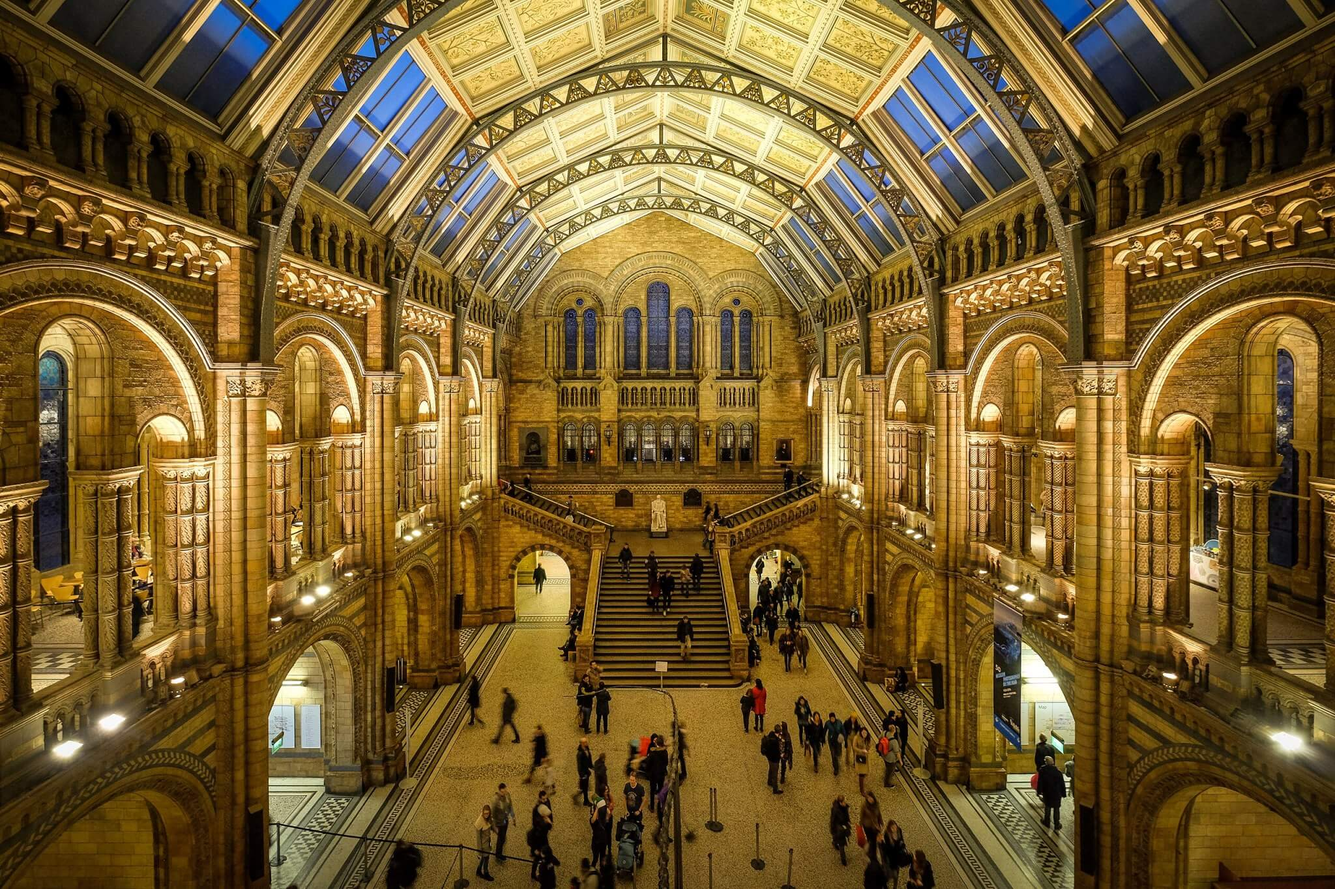
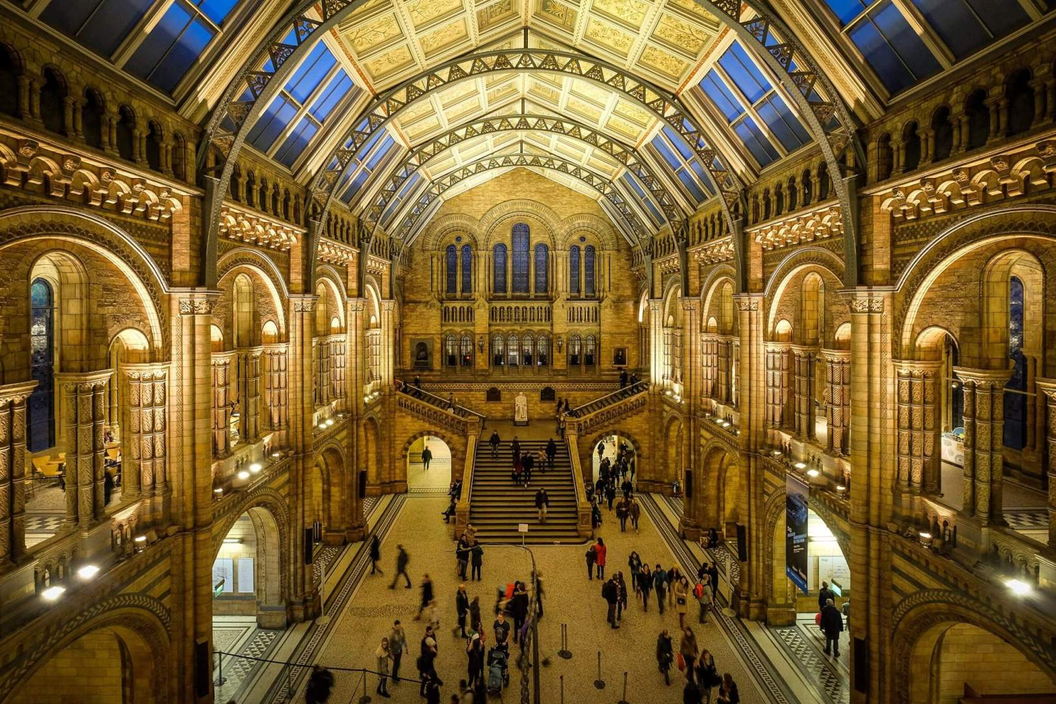
images_upgrade

diff --git a/components/AnimatedMenu/AnimatedMenuInterfaces.tsx b/components/AnimatedMenu/AnimatedMenuInterfaces.tsx
@@ -16,7 +16,7 @@ export const items: Item[] = [
       'ROMAN art was influenced by Greece and can in part be taken as a descendant ' +
       'of ancient Greek painting and sculpture, but was also strongly influenced by the' +
       ' more local Etruscan art of Italy. ',
-    imageUrl: '/animatedMenu/Achilles_Right_Compressed.jpg',
+    imageUrl: '/animatedMenu/Achilles_Right_Compressed.webp',
     theme: 'Pink',
   },
   {
@@ -26,7 +26,7 @@ export const items: Item[] = [
       ' and the Gothic art that emerged in Western Europe over the same period.' +
       ' Romanesque art and Gothic art dominated Western and Central Europe from approximately 1000 AD ' +
       'to the rise of the Renaissance style in the 15th century or later, depending on the region',
-    imageUrl: '/animatedMenu/Gothic_New.jpg',
+    imageUrl: '/animatedMenu/Gothic_New.webp',
   },
   {
     id: '03',
@@ -35,7 +35,7 @@ export const items: Item[] = [
       'in parallel with developments which occurred in philosophy, literature, music, and science.' +
       ' It took as its foundation the art of Classical antiquity, but was also influenced by the art of Northern Europe ' +
       'and contemporary scientific knowledge. Renaissance artists painted a wide variety of themes.',
-    imageUrl: '/animatedMenu/Pieta_New.jpg',
+    imageUrl: '/animatedMenu/Pieta_New.webp',
   },
   {
     id: '04',
@@ -43,7 +43,7 @@ export const items: Item[] = [
     text: 'Renaissance Classicism spawned two different movements—Mannerism and the Baroque. ' +
       'Mannerism, a reaction against the idealist perfection of Classicism, employed distortion of light ' +
       'and spatial frameworks in order to emphasize the emotional content of a painting and the emotions of the painter.',
-    imageUrl: '/animatedMenu/Trevi_New.jpg',
+    imageUrl: '/animatedMenu/Trevi_New.webp',
 
   },
 ]

diff --git a/components/ArtMenu/MenuInterfaces.tsx b/components/ArtMenu/MenuInterfaces.tsx
@@ -46,7 +46,7 @@ export const links: ArtMenuLinks[] = [
         </>
       ),
       titleUrl: '/images/British_Museum/british-museum-logo.svg',
-      coverImage: '/images/British_Museum/Br_Museum.jpg',
+      coverImage: '/images/British_Museum/Br_Museum.webp',
       listImages: [
         {
           name: 'Man_Bust',
@@ -273,7 +273,7 @@ In the light of the results of isotopic analysis of marble from this sarcophagus
             a collection of ancient Greek and Roman sculpture</p>
         </>
       ),
-      coverImage: '/images/Louvre/gallery-apollon.jpg',
+      coverImage: '/images/Louvre/gallery-apollon.webp',
       listImages: [
         {
           name: 'Gau',
@@ -499,7 +499,7 @@ In the light of the results of isotopic analysis of marble from this sarcophagus
             1605–1621).</p>
         </>
       ),
-      coverImage: '/images/Borghese/Borghese_compressed.jpg',
+      coverImage: '/images/Borghese/Borghese_compressed.webp',
       listImages: [
         {
           name: 'ATHENA',
@@ -769,7 +769,7 @@ In the light of the results of isotopic analysis of marble from this sarcophagus
             comprise over three million items (the numismatic collection accounts for about one-third of them)</p>
         </>
       ),
-      coverImage: '/images/Hermitage/Hermitage_three.jpg',
+      coverImage: '/images/Hermitage/Hermitage_three.webp',
       listImages: [
         {
           name: 'Armour',
@@ -944,7 +944,7 @@ In the light of the results of isotopic analysis of marble from this sarcophagus
           <p>Pope Julius II founded the museums in the early 16th century.</p>
         </>
       ),
-      coverImage: '/images/Vatican_Museums/Vatican_four.jpg',
+      coverImage: '/images/Vatican_Museums/Vatican_four.webp',
       listImages: [
         {
           name: '',

diff --git a/components/SocialNetworks/style.module.scss b/components/SocialNetworks/style.module.scss
@@ -48,7 +48,7 @@
   width: 100vw;
   height: 100vh;
   //background: #4D2A32;
-  background: url("../../public/images/Louvre/Sculptures_one_Compressed.jpg") no-repeat center center;
+  //background: url("../../public/images/Louvre/Sculptures_one_Compressed.jpg") no-repeat center center;
 
 
   z-index: 9999;

diff --git a/components/ItemModal/styles.module.scss b/components/ItemModal/styles.module.scss
@@ -5,7 +5,7 @@
   right: 0;
   bottom: 0;
   //background: #091419;
-  background: url("./images/Sculptures_one_Compressed.jpg");
+  background: url("./images/Sculptures_one_Compressed.webp");
   width: 100%;
   height: 100%;
   z-index: 200;

diff --git a/components/GlassCard/style.module.scss b/components/GlassCard/style.module.scss
@@ -15,7 +15,7 @@
   //box-sizing: border-box;
 
   &Image {
-    position: absolute;
+    position: relative;
     background-size: contain;
     max-width: 75%;
     height: 35vh;
